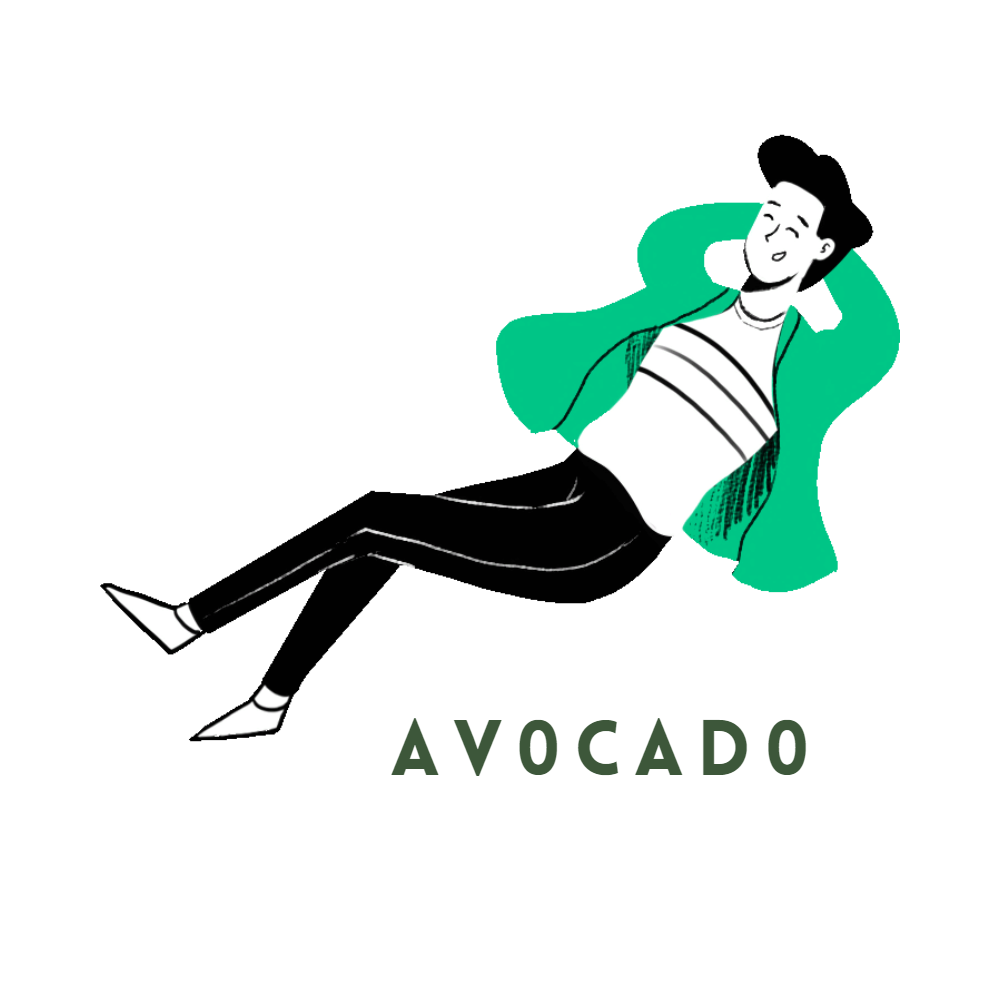
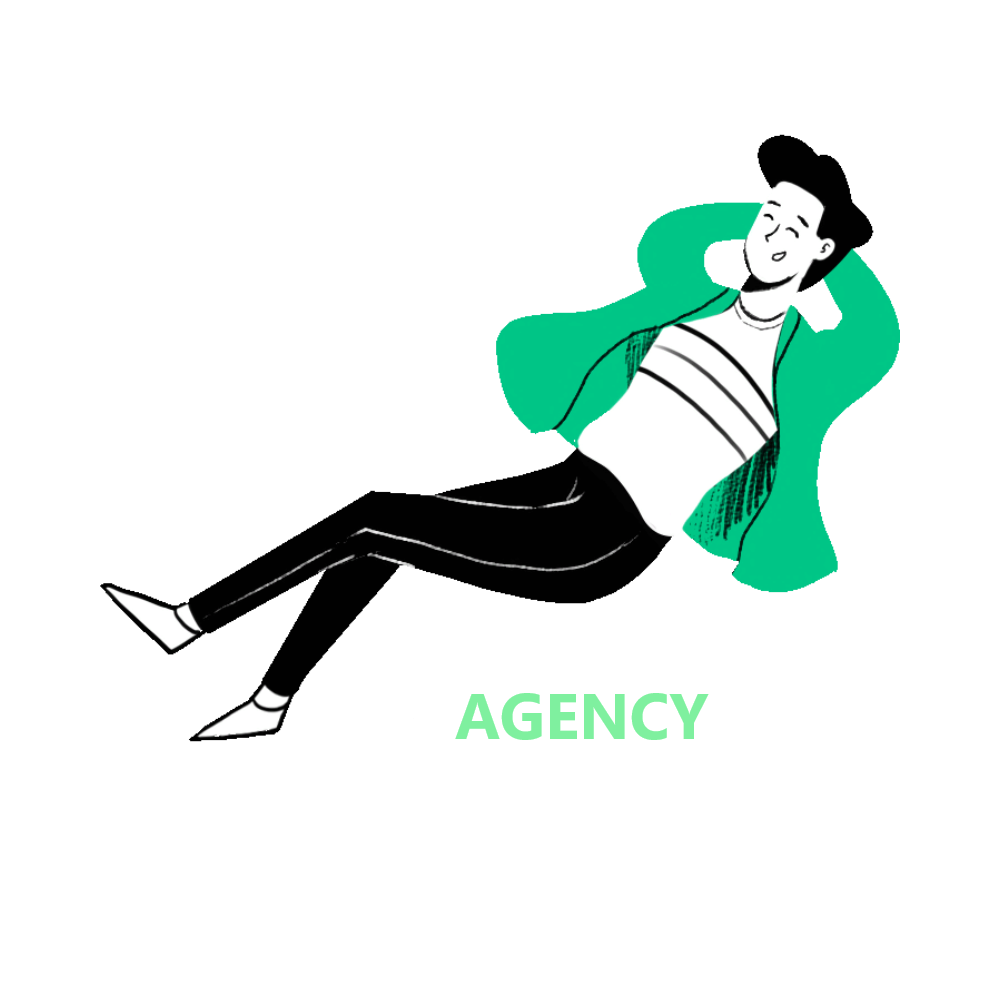
menu bar created

Changed region(s): [[0.372, 0.682, 0.806, 0.775]]

diff --git a/front-end-path/agency/components/Navbar.jsx b/front-end-path/agency/components/Navbar.jsx
@@ -1,6 +1,10 @@
+import { useState } from 'react'
 import styles from '../styles/Navbar.module.css'
 import Link from 'next/link'
+
 const Navbar = () => {
+  const [open, setOpen] = useState(false)
+
   return (
     <div className={styles.container}>
       <Link href='/'>AGENCY</Link>
@@ -9,7 +13,7 @@ const Navbar = () => {
           <Link href='/products/design'>DESIGN</Link>
         </li>
         <li className={styles.listItem}>
-          <Link href='/products/development '>DEVELOPMENT</Link>
+          <Link href='/products/development'>DEVELOPMENT</Link>
         </li>
         <li className={styles.listItem}>
           <Link href='/products/production'>PRODUCTION</Link>
@@ -18,6 +22,31 @@ const Navbar = () => {
           <Link href='/products/photography'>PHOTOGRAPHY</Link>
         </li>
         <li className={styles.listItem}>
+          <Link href='/contact'>CONTACT</Link>
+        </li>
+      </ul>
+      <div className={styles.hamburger} onClick={() => setOpen(!open)}>
+        <div className={styles.line} />
+        <div className={styles.line} />
+        <div className={styles.line} />
+      </div>
+      <ul className={styles.menu} style={{ right: open ? '0px' : '-50vw' }}>
+        <li className={styles.menuItem}>
+          <Link href='/'>HOME</Link>
+        </li>
+        <li className={styles.menuItem}>
+          <Link href='/products/design'>DESIGN</Link>
+        </li>
+        <li className={styles.menuItem}>
+          <Link href='/products/development'>DEVELOPMENT</Link>
+        </li>
+        <li className={styles.menuItem}>
+          <Link href='/products/production'>PRODUCTION</Link>
+        </li>
+        <li className={styles.menuItem}>
+          <Link href='/products/photography'>PHOTOGRAPHY</Link>
+        </li>
+        <li className={styles.menuItem}>
           <Link href='/contact'>CONTACT</Link>
         </li>
       </ul>

diff --git a/front-end-path/agency/styles/Navbar.module.css b/front-end-path/agency/styles/Navbar.module.css
@@ -7,6 +7,8 @@
   justify-content: space-between;
   padding: 0 100px;
   font-size: 18px;
+  position: relative;
+  /* overflow: hidden; */
 }
 
 .listItem {
@@ -15,4 +17,51 @@
   font-size: 14px;
   color: lightgray;
   cursor: pointer;
+}
+
+.hamburger {
+  display: none;
+}
+.menu {
+  display: none;
+}
+
+@media screen and (max-width: 480px) {
+  .container {
+    padding: 0 20px;
+  }
+  .list {
+    display: none;
+  }
+  .hamburger {
+    display: flex;
+    flex-direction: column;
+    justify-content: space-between;
+    width: 25px;
+    height: 20px;
+    cursor: pointer;
+  }
+  .line {
+    width: 100%;
+    height: 3px;
+    background-color: white;
+  }
+
+  .menu {
+    position: fixed;
+    height: calc(100vh - 50px);
+    width: 50vw;
+    background-color: black;
+    top: 50px;
+    margin: 0;
+    padding: 0;
+    font-weight: bold;
+    color: lightgray;
+    list-style: none;
+    display: flex;
+    flex-direction: column;
+    align-items: center;
+    justify-content: space-around;
+    z-index: 999;
+  }
 }
